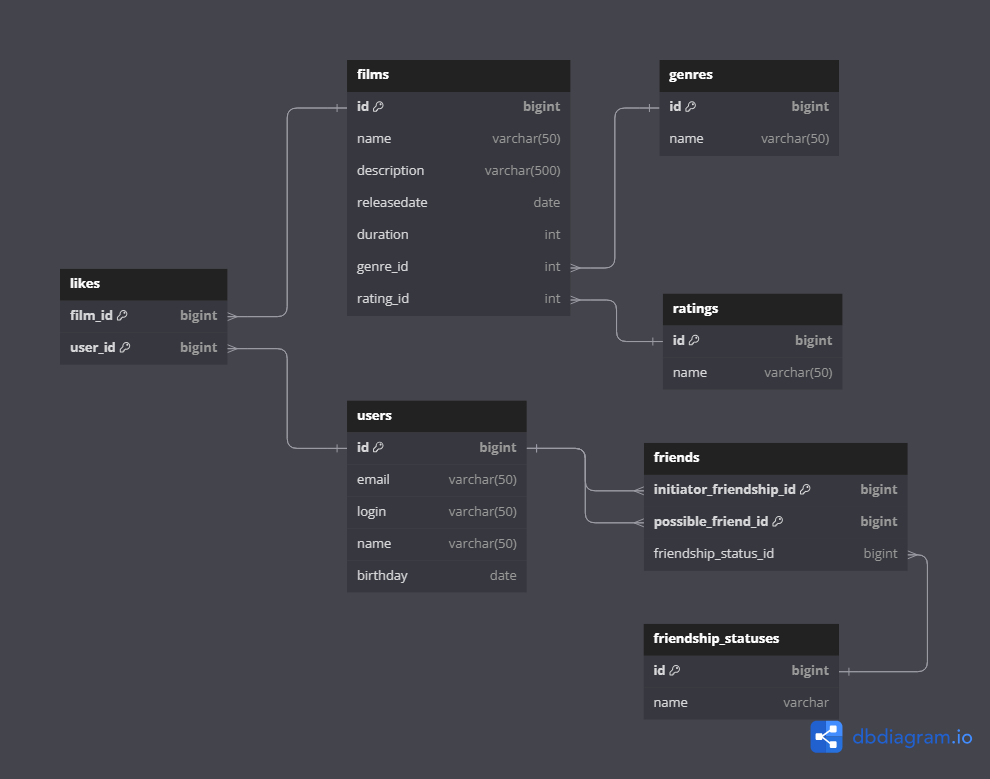
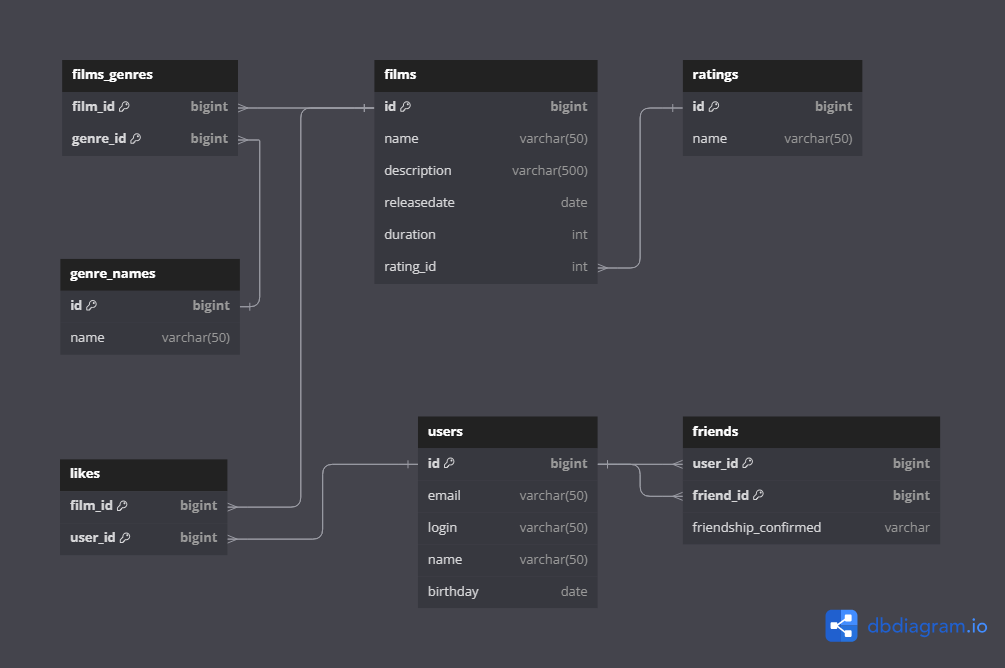
improvements er diagram and sql requests

diff --git a/README.md b/README.md
@@ -1,67 +1,152 @@
 # java-filmorate
 Template repository for Filmorate project.
 
+### ER diagram
 ![ER diagram](/ER-diagram-filmorate.png)
+<br>
 
---Получить все фильмы
-SELECT "name" FROM films f;
+#### Таблица <u>films</u> содержит информацию о фильмах. PK - id; FK - rating_id.
 
---Добавить фильм
-INSERT INTO filmorate.films (id, "name", description, releasedate, duration, genre_id, rating_id) 
-VALUES(5, 'Тюлени', 'Описание фильма Тюлени....', '2014-09-06', 65, 1, 5);
+Запрос на получение списка фильмов со всеми данными
+``` sql
+SELECT *
+FROM films;
+```
+<br>
 
---Обновить фильм
-UPDATE filmorate.films
-SET "name"='Схватка'
-WHERE id=1;
+Запрос на добавление фильма
+``` sql
+INSERT INTO films (name, description, release_date, duration, rating_id) 
+VALUES('Название', 'Описание ', '2014-09-06', 65, 3);
+```
+<br>
 
---Получить фильм по id
-SELECT "name" 
-FROM films f 
+Запрос на обновление информации 
+```sql
+UPDATE films
+SET name = 'Новое название'
+WHERE id = 1;
+```
+<br>
+
+Запрос фильма по id
+``` sql
+SELECT name
+FROM films 
 WHERE id = 2;
+```
+<br>
 
---Поставить лайк фильму
-INSERT INTO filmorate.likes (film_id , user_id) 
-VALUES(3, 4);
+#### Таблица <u>ratings</u> содержит названия рейтингов фильмов. PK - id.
 
---Удалить лайк у фильма
-DELETE FROM filmorate.likes
-WHERE film_id=1 AND user_id=3;
+Запрос названия рейтинга фильма по id фильма
+``` sql
+SELECT name
+FROM ratings 
+WHERE id = (
+    SELECT rating_id
+    FROM films
+    WHERE id = 1);
+```
+<br>
 
---Получить список из 10 фильмов с наибольшим количеством лайков
-SELECT f."name",
-       COUNT(l.user_id)
-FROM films f
-JOIN likes l ON f.id = l.film_id
-GROUP BY f."name"
-LIMIT 10;
+#### Таблица <u>genre_names</u> содержит названия жанров фильмов. PK - id.
+#### Таблица <u>films_genres</u> содержит соответствия идентификаторов фильмов и идентификаторов жанров. PK - (film_id, genre_id);  FK - film_id; FK - genre_id;
 
---Получить всех пользователей
+Запрос списка фильмов в жанре 'Комедия'
+``` sql
+SELECT *
+FROM films 
+WHERE id IN (
+    SELECT film_id
+    FROM films_genres fg 
+    JOIN genre_names gn ON fg.genre_id = gn.id
+    WHERE gn.name = 'Комедия' 
+);
+```
+<br>
+
+
+#### Таблица <u>users</u> содержит информацию о пользователях. PK - (id).
+
+Запрос на получение списка пользователей со всеми данными
+``` sql
 SELECT *
 FROM users;
+```
+<br>
 
---Добавить пользователя
-INSERT INTO filmorate.users (id, email, login, "name", birthday) VALUES(1, 'nikol@mail.ru', 'nikola', 'Николай', '1996-03-07');
+Запрос на добавление пользователя
+``` sql
+INSERT INTO users (email, login, name, birthday) 
+VALUES('nikol@mail.ru', 'nikola', 'Николай', '1996-03-07');
+```
+<br>
 
---Изменить информацию о пользователе
-UPDATE filmorate.users
-SET email='nikol@mail.ru'
-WHERE id=1;
+Запрос на обновление информации
+```sql
+UPDATE users
+SET name = 'Новое имя'
+WHERE id = 1;
+```
+<br>
 
---Получить пользователя по id
+Запрос почты пользователя по id
+``` sql
+SELECT email
+FROM users 
+WHERE id = 2;
+```
+<br>
+
+#### Таблица <u>likes</u> содержит соответствия идентификаторов фильмов и идентификаторов пользователей. PK - (film_id, user_id);  FK - film_id; FK - user_id;
+
+Зарос таблицы топ 10 фильмов по количеству лайков с названиями фильмов и количеством лайков
+``` sql
+SELECT f.name AS film_name,
+       count_likes
+FROM (
+   SELECT l.film_id,
+          count(l.user_id) as count_likes
+   FROM likes l
+   GROUP BY l.film_id
+) AS group_likes_by_films
+INNER JOIN films f ON group_likes_by_films.film_id = f.id
+ORDER BY count_likes DESC
+LIMIT 10;
+```
+<br>
+
+#### Таблица <u>friends</u> содержит соответствия идентификаторов пользователя и его друга. PK - (user_id, friend_id);  FK - user_id; FK - friend_id; Поле friendship_confirmed содержит значение 'yes', если у обоих пользователей присутствуют записи с их идентификатором в колонке friend_id, в противном случае 'no'.
+
+Запрос на добавление одним пользователем (id=1) себе в друзья другого пользователя (id=2).
+``` sql
+IF EXISTS (
+    SELECT *
+    FROM friends
+    WHERE user_id = 2 AND friend_id = 1
+) BEGIN 
+
+INSERT INTO friends (user_id, friend_id, friendship_confirmed)
+VALUES(1, 2, 'yes');
+UPDATE friends
+SET friendship_confirmed = 'yes'
+WHERE user_id = 2 AND friend_id = 1
+
+END ELSE BEGIN
+INSERT INTO friends (user_id, friend_id, friendship_confirmed)
+VALUES(1, 2, 'no')
+```
+<br>
+
+Запрос списка подтвержденных пользователей, которые являются друзями пользователя с id=1
+``` sql
 SELECT *
-FROM users u
-WHERE id=1;
-
---Добавить друга
-INSERT INTO filmorate.friends (initiator_friendship_id, possible_friend_id, friendship_status_id) VALUES(1, 2, 1);
-
---Получить список подтвержденных друзей
-SELECT *
-FROM users u
-JOIN friends f ON u.id = f.initiator_friendship_id OR u.id = f.possible_friend_id
-WHERE u.id = 2 AND f.friendship_status_id = 1;
-
---Удалить из друзей
-DELETE FROM filmorate.friends
-WHERE initiator_friendship_id=1 AND possible_friend_id=3;
+FROM users 
+WHERE id IN (
+    SELECT friend_id
+    FROM friends
+    WHERE user_id = 1 AND friendship_confirmed = 'yes'
+);
+```
+<br>
